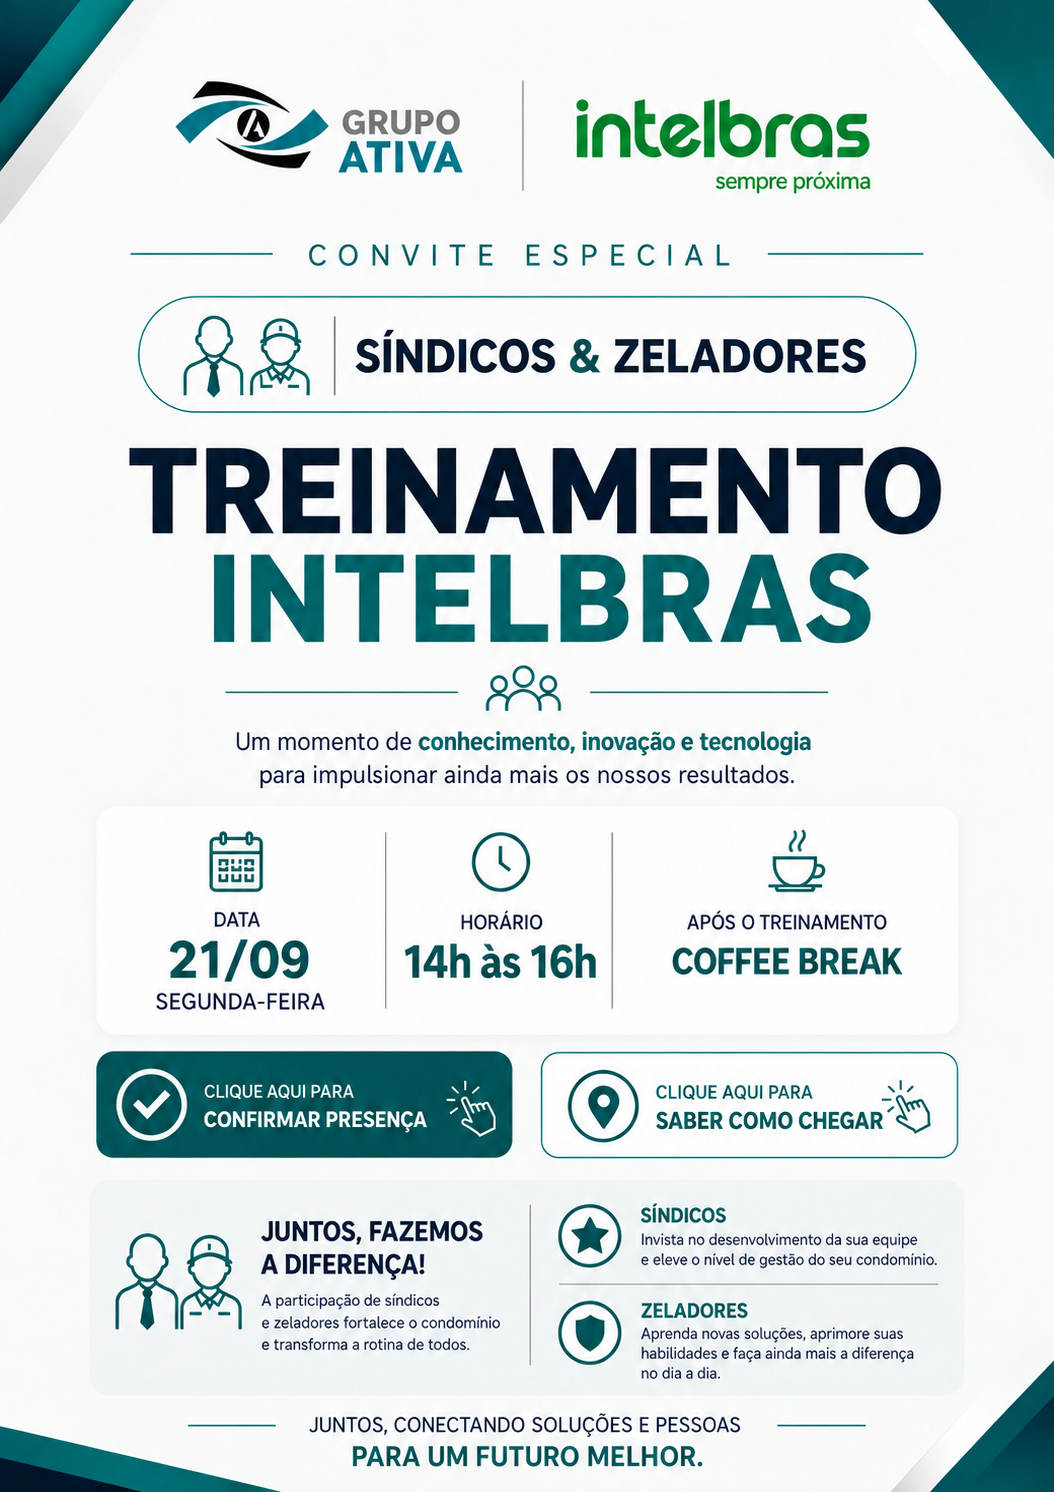
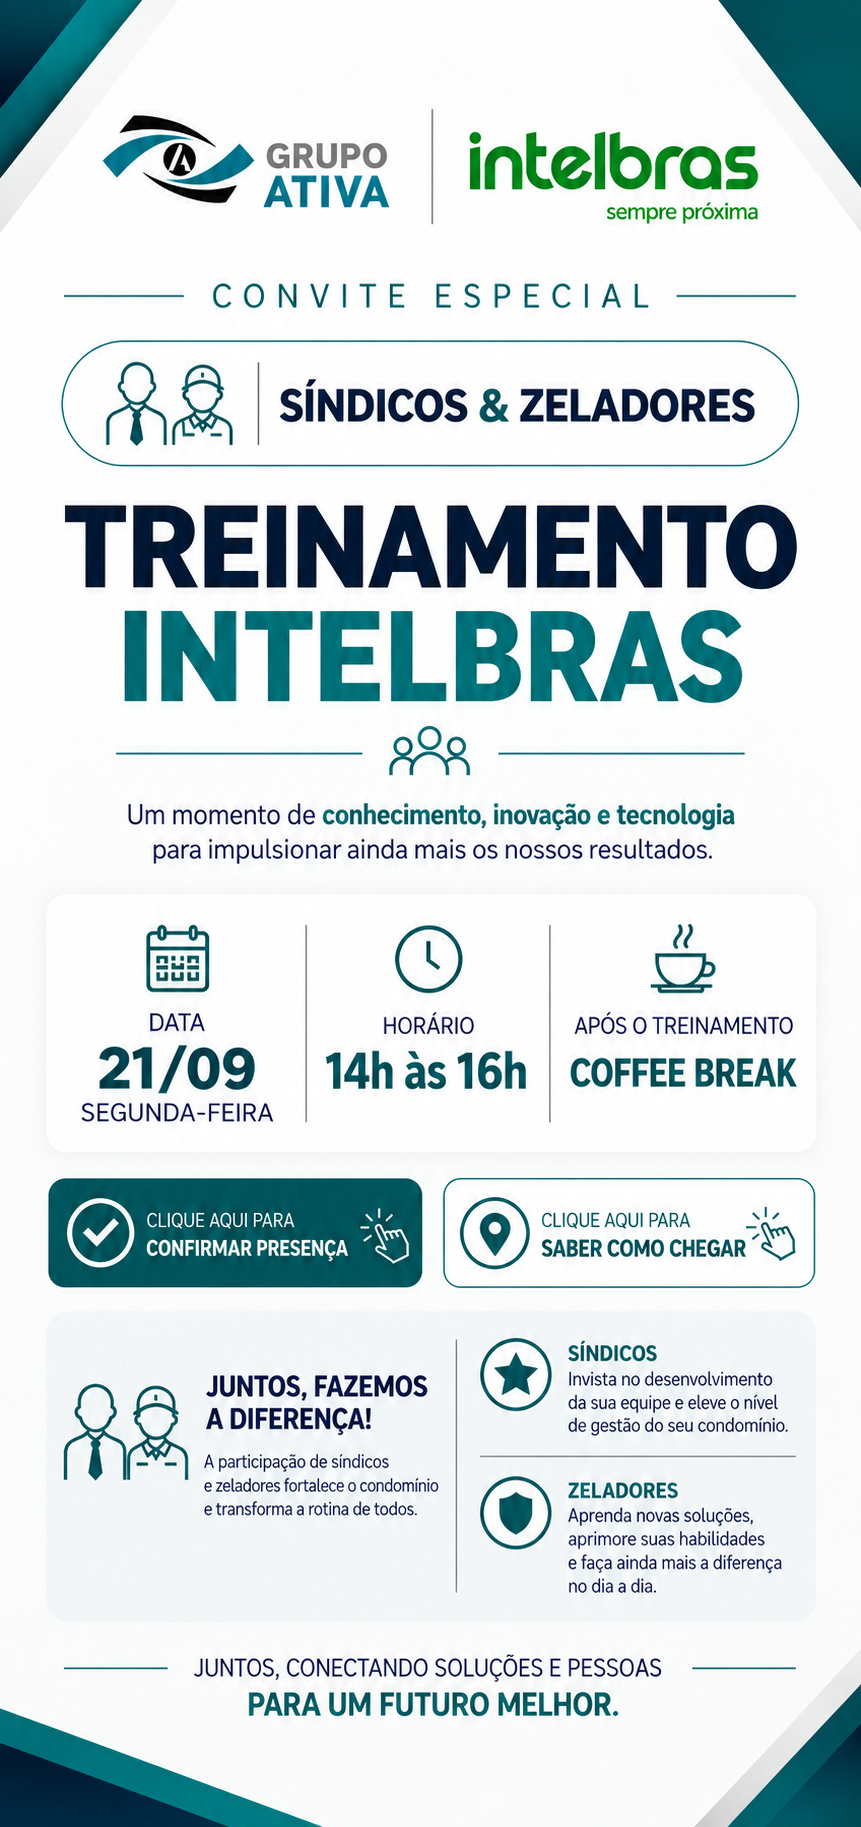
refactor: update cover image and hotzone layout

diff --git a/src/lib/api.ts b/src/lib/api.ts
@@ -45,10 +45,10 @@ const INITIAL_FALLBACK_DB: {
           actionType: 'confirm_rsvp',
           targetUrl: '#formulario',
           openInNewTab: false,
-          x: 9.2,
-          y: 70.5,
-          width: 39.4,
-          height: 7.1
+          x: 5.6,
+          y: 64.5,
+          width: 43.4,
+          height: 6.0
         },
         {
           id: 'hs-2',
@@ -56,10 +56,10 @@ const INITIAL_FALLBACK_DB: {
           actionType: 'google_maps',
           targetUrl: 'https://maps.google.com/?q=R.+Bela+Cintra%2C+299+-+3%C2%BA+andar+-+Consola%C3%A7%C3%A3o+-+S%C3%A3o+Paulo+-+SP%2C+01415-001',
           openInNewTab: true,
-          x: 51.4,
-          y: 70.5,
-          width: 39.4,
-          height: 7.1
+          x: 51.3,
+          y: 64.4,
+          width: 43.3,
+          height: 6.0
         }
       ]
     }

diff --git a/index.html b/index.html
@@ -31,8 +31,8 @@
     <meta property="og:image" content="/covers/default-cover.png" />
     <meta property="og:image:secure_url" content="/covers/default-cover.png" />
     <meta property="og:image:type" content="image/png" />
-    <meta property="og:image:width" content="1054" />
-    <meta property="og:image:height" content="1492" />
+    <meta property="og:image:width" content="861" />
+    <meta property="og:image:height" content="1827" />
     <meta property="og:type" content="website" />
     <meta property="og:locale" content="pt_BR" />
     <meta name="twitter:card" content="summary_large_image" />
